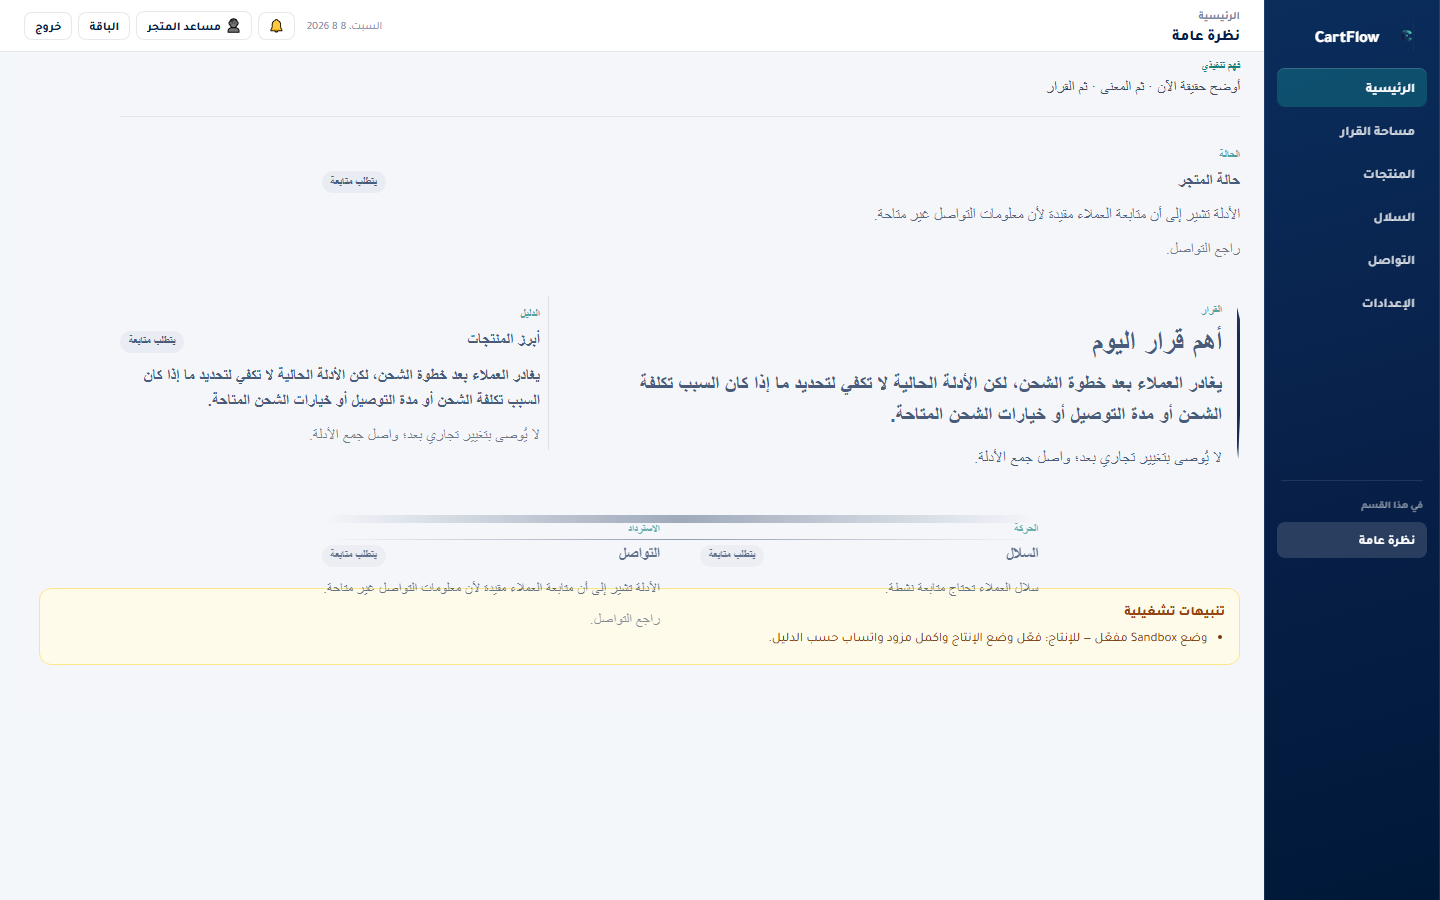
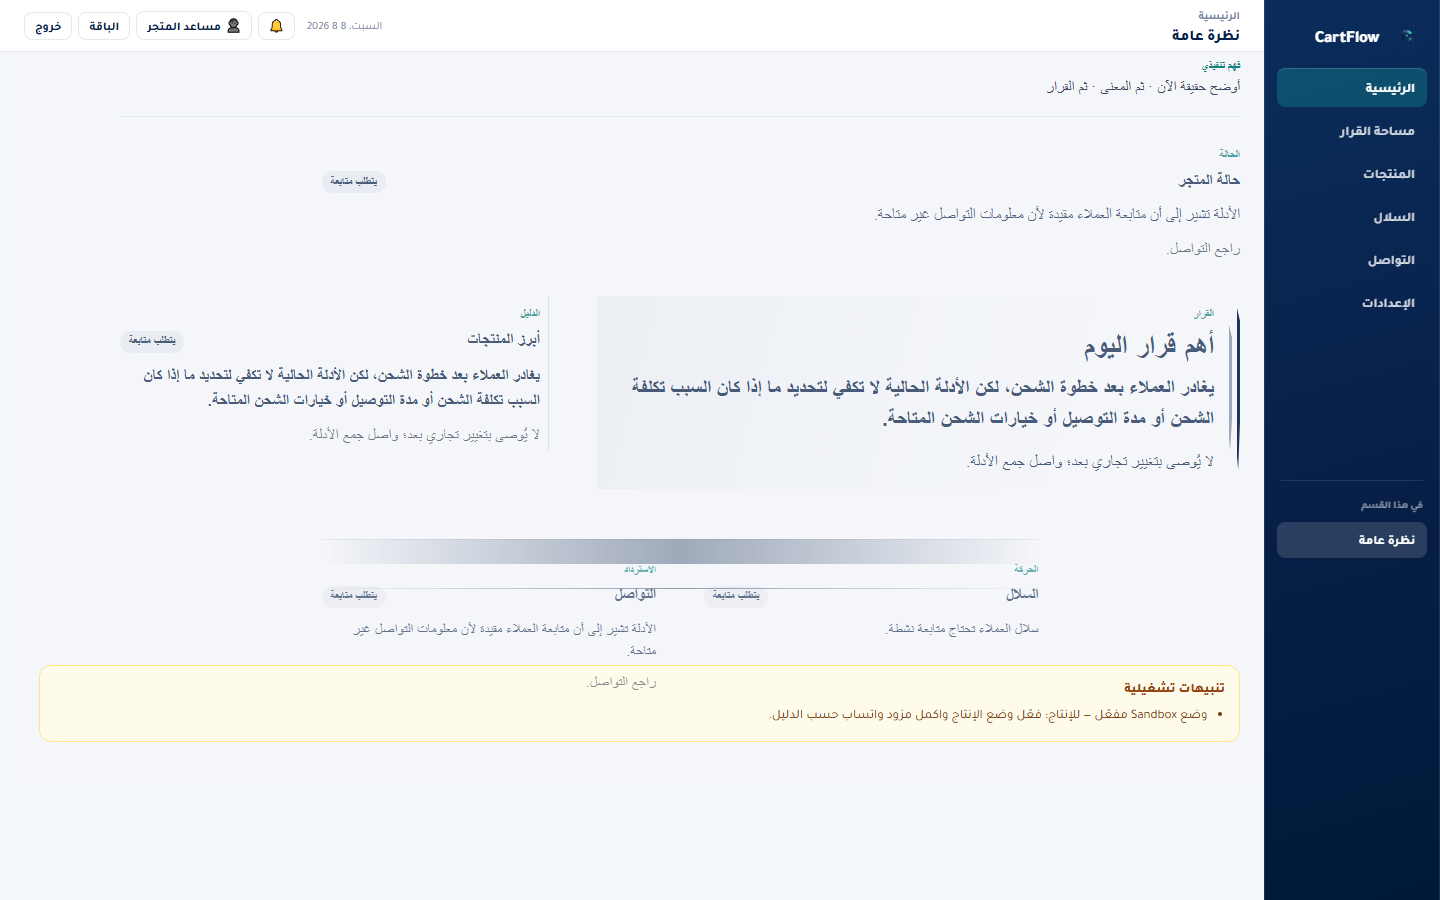
docs: refresh Merchant Experience Rebuild Gate 1 captures

diff --git a/static/merchant_experience_home_v1.css b/static/merchant_experience_home_v1.css
@@ -47,6 +47,7 @@ body[data-cf-merchant-app="1"][data-cf-frame="v1"] .cx-home__field {
   display: flex;
   flex-direction: column;
   gap: 0;
+  isolation: isolate;
 }
 
 body[data-cf-merchant-app="1"][data-cf-frame="v1"] .cx-home__condition {
@@ -130,13 +131,6 @@ body[data-cf-merchant-app="1"][data-cf-frame="v1"] .cx-home__secondary {
 body[data-cf-merchant-app="1"][data-cf-frame="v1"] .cx-home__condition .cx-insight__action,
 body[data-cf-merchant-app="1"][data-cf-frame="v1"] .cx-insight--quiet .cx-insight__action {
   margin-top: 12px;
-}
-
-body[data-cf-merchant-app="1"][data-cf-frame="v1"] .cx-home__field {
-  display: flex;
-  flex-direction: column;
-  gap: 0;
-  isolation: isolate;
 }
 
 /* Keep setup / alerts below the executive field — no collision */

diff --git a/scripts/_capture_merchant_experience_rebuild_gate1_v1.py b/scripts/_capture_merchant_experience_rebuild_gate1_v1.py
@@ -12,7 +12,7 @@ from playwright.sync_api import sync_playwright
 ROOT = Path(__file__).resolve().parents[1]
 OUT = ROOT / "docs" / "product" / "merchant_experience_rebuild_v1"
 BASE = "https://smartreplyai.net"
-EXPECTED_SHA_PREFIX = "425afab"
+EXPECTED_SHA_PREFIX = "61c415f"
 ASSETS = (
     "/static/merchant_frame_v1.css",
     "/static/merchant_ds_v1.css",

diff --git a/docs/product/merchant_experience_rebuild_v1/REPORT.md b/docs/product/merchant_experience_rebuild_v1/REPORT.md
@@ -8,10 +8,10 @@
 
 | Field | Value |
 |---|---|
-| SHA | `425afabf9a33a2807ce93892235ade72d37f0fa1` |
-| Short | `425afab` |
-| Message | `feat: rebuild Home and Decision Workspace presentation for CartFlow` |
-| Production header | `X-CartFlow-Git-Sha: 425afabf9a33a2807ce93892235ade72d37f0fa1` |
+| SHA | `61c415f` (polish on `425afab`) |
+| Short | `61c415f` |
+| Message | `fix: polish Home experience field spacing after Living Store capture` |
+| Production header | matches `61c415f…` |
 
 ## What changed (presentation only)
 
